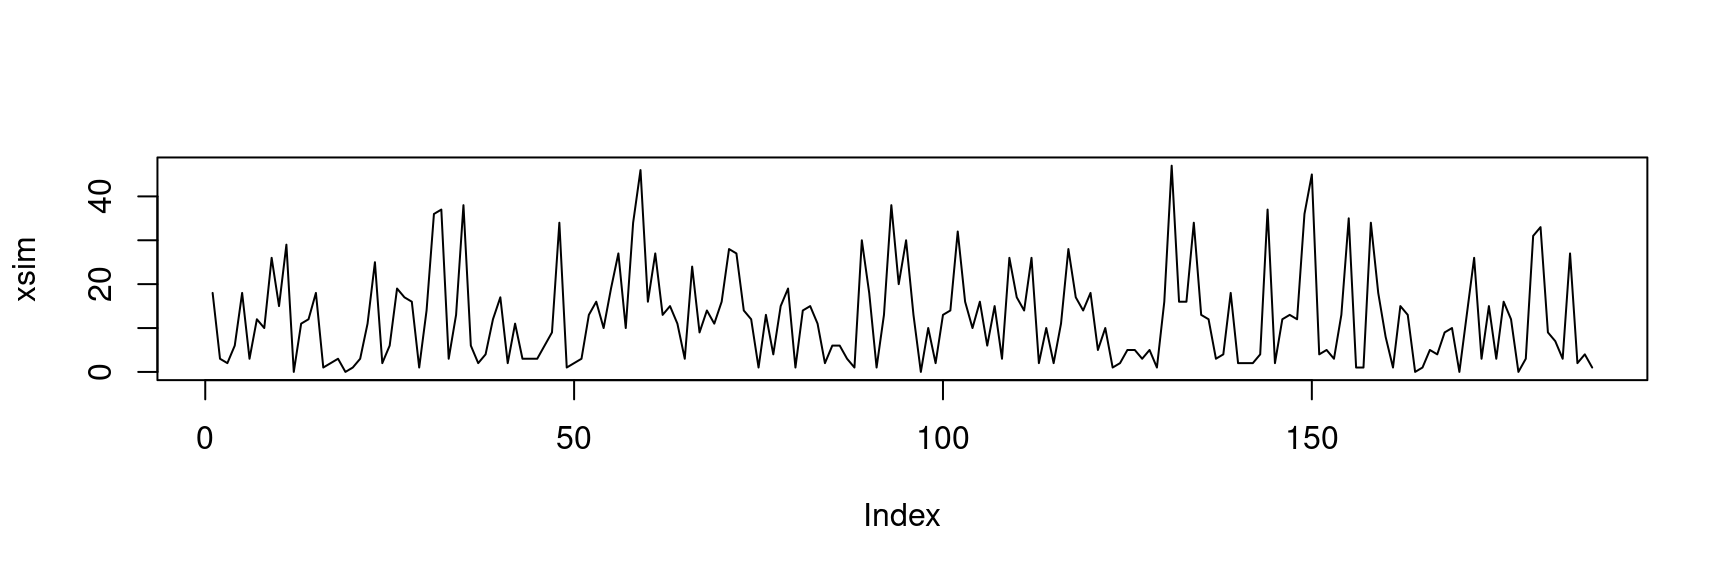
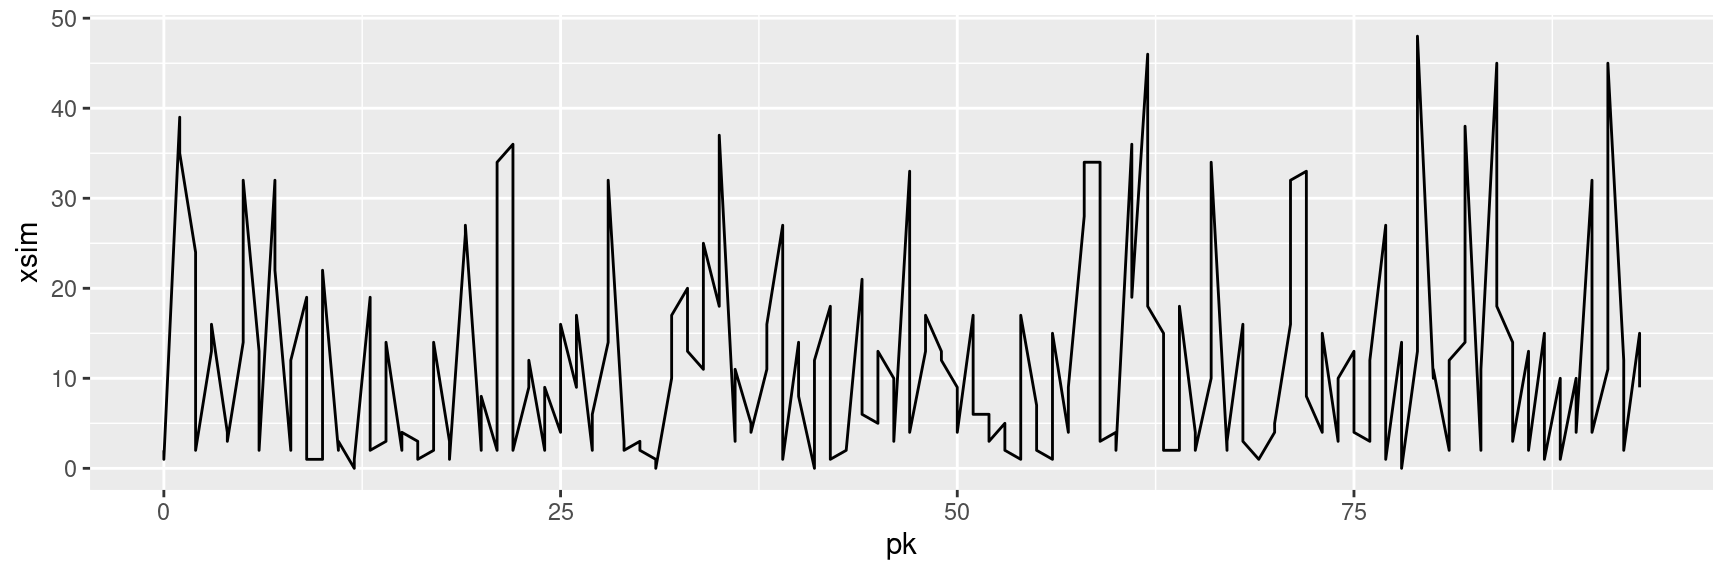
add context to cHMM

diff --git a/docs/continuous_HMMs.html b/docs/continuous_HMMs.html
@@ -54,7 +54,26 @@ div.sourceCode
 @media screen {
 pre > code.sourceCode > span > a:first-child::before { text-decoration: underline; }
 }
-</style>
+/* CSS for citations */
+div.csl-bib-body { }
+div.csl-entry {
+  clear: both;
+}
+.hanging-indent div.csl-entry {
+  margin-left:2em;
+  text-indent:-2em;
+}
+div.csl-left-margin {
+  min-width:2em;
+  float:left;
+}
+div.csl-right-inline {
+  margin-left:2em;
+  padding-left:1em;
+}
+div.csl-indent {
+  margin-left: 2em;
+}</style>
 
 
 <script src="site_libs/quarto-nav/quarto-nav.js"></script>
@@ -96,6 +115,8 @@ pre > code.sourceCode > span > a:first-child::before { text-decoration: underlin
   }
 }</script>
 
+  <script src="https://polyfill.io/v3/polyfill.min.js?features=es6"></script>
+  <script src="https://cdn.jsdelivr.net/npm/mathjax@3/es5/tex-chtml-full.js" type="text/javascript"></script>
 
 <link rel="stylesheet" href="style.css">
 </head>
@@ -186,8 +207,9 @@ pre > code.sourceCode > span > a:first-child::before { text-decoration: underlin
     <h2 id="toc-title">Table of contents</h2>
    
   <ul>
-  <li><a href="#introduction" id="toc-introduction" class="nav-link active" data-scroll-target="#introduction"><span class="header-section-number">6</span> Introduction</a></li>
-  <li><a href="#the-2-states" id="toc-the-2-states" class="nav-link" data-scroll-target="#the-2-states"><span class="header-section-number">7</span> The 2 states</a></li>
+  <li><a href="#initial-parameters" id="toc-initial-parameters" class="nav-link active" data-scroll-target="#initial-parameters"><span class="header-section-number">5.1</span> Initial parameters</a></li>
+  <li><a href="#fitting-the-model" id="toc-fitting-the-model" class="nav-link" data-scroll-target="#fitting-the-model"><span class="header-section-number">5.2</span> Fitting the model</a></li>
+  <li><a href="#considering-two-states" id="toc-considering-two-states" class="nav-link" data-scroll-target="#considering-two-states"><span class="header-section-number">5.3</span> Considering two states</a></li>
   </ul>
 </nav>
     </div>
@@ -211,17 +233,21 @@ pre > code.sourceCode > span > a:first-child::before { text-decoration: underlin
 
 </header>
 
-<section id="introduction" class="level1" data-number="6">
-<h1 data-number="6"><span class="header-section-number">6</span> Introduction</h1>
+<p>Although states in Hidden Markov Models are by definition categorical, the observations might be quantitative rather than categorical. In these cases the HMM might be called continuous observations HMMs or <strong>continuous HMMs</strong> (though the quantitative outputs might actually have discrete or pseudo-continous distributions).</p>
+<p>We will illustrate such a model in the case of a Poisson distribution. To do so we will consider an <strong>observed series consisting of the number of wood rafts observed along a river</strong>.</p>
+<p>To fit the Poisson Hidden Markov Model we use R scripts provided as an annex to the book <span class="citation" data-cites="zucchini_mcdonald_2009">Zucchini and MacDonald (<a href="references.html#ref-zucchini_mcdonald_2009" role="doc-biblioref">2009</a>)</span> and provided in the current repo under scripts:</p>
 <div class="cell">
-<div class="sourceCode cell-code" id="cb1"><pre class="sourceCode r code-with-copy"><code class="sourceCode r"><span id="cb1-1"><a href="#cb1-1" aria-hidden="true" tabindex="-1"></a><span class="fu">source</span>(<span class="st">"scripts/scripts_Zucchini_and_McDonald_2009.R"</span>)</span>
-<span id="cb1-2"><a href="#cb1-2" aria-hidden="true" tabindex="-1"></a><span class="co"># number of wood rafts</span></span>
-<span id="cb1-3"><a href="#cb1-3" aria-hidden="true" tabindex="-1"></a>data<span class="ot">=</span> readr<span class="sc">::</span><span class="fu">read_csv</span>(<span class="st">"data/wood_abundance.csv"</span>)</span>
-<span id="cb1-4"><a href="#cb1-4" aria-hidden="true" tabindex="-1"></a>pk<span class="ot">=</span>data<span class="sc">$</span>PK</span>
-<span id="cb1-5"><a href="#cb1-5" aria-hidden="true" tabindex="-1"></a>x<span class="ot">=</span>data<span class="sc">$</span>nbre_embacle</span></code><button title="Copy to Clipboard" class="code-copy-button"><i class="bi"></i></button></pre></div>
+<div class="sourceCode cell-code" id="cb1"><pre class="sourceCode r code-with-copy"><code class="sourceCode r"><span id="cb1-1"><a href="#cb1-1" aria-hidden="true" tabindex="-1"></a><span class="fu">source</span>(<span class="st">"scripts/scripts_Zucchini_and_McDonald_2009.R"</span>)</span></code><button title="Copy to Clipboard" class="code-copy-button"><i class="bi"></i></button></pre></div>
 </div>
 <div class="cell">
-<div class="sourceCode cell-code" id="cb2"><pre class="sourceCode r code-with-copy"><code class="sourceCode r"><span id="cb2-1"><a href="#cb2-1" aria-hidden="true" tabindex="-1"></a><span class="fu">plot</span>(x, <span class="at">type=</span><span class="st">"l"</span>)</span></code><button title="Copy to Clipboard" class="code-copy-button"><i class="bi"></i></button></pre></div>
+<div class="sourceCode cell-code" id="cb2"><pre class="sourceCode r code-with-copy"><code class="sourceCode r"><span id="cb2-1"><a href="#cb2-1" aria-hidden="true" tabindex="-1"></a><span class="co"># number of wood rafts</span></span>
+<span id="cb2-2"><a href="#cb2-2" aria-hidden="true" tabindex="-1"></a>woodrafts<span class="ot">=</span> readr<span class="sc">::</span><span class="fu">read_csv</span>(<span class="st">"data/wood_abundance.csv"</span>)</span>
+<span id="cb2-3"><a href="#cb2-3" aria-hidden="true" tabindex="-1"></a>pk<span class="ot">=</span>woodrafts<span class="sc">$</span>PK</span>
+<span id="cb2-4"><a href="#cb2-4" aria-hidden="true" tabindex="-1"></a>x<span class="ot">=</span>woodrafts<span class="sc">$</span>nbre_embacle</span></code><button title="Copy to Clipboard" class="code-copy-button"><i class="bi"></i></button></pre></div>
+</div>
+<div class="cell">
+<div class="sourceCode cell-code" id="cb3"><pre class="sourceCode r code-with-copy"><code class="sourceCode r"><span id="cb3-1"><a href="#cb3-1" aria-hidden="true" tabindex="-1"></a><span class="fu">ggplot</span>(woodrafts, <span class="fu">aes</span>(<span class="at">x=</span>pk, <span class="at">y=</span>nbre_embacle))<span class="sc">+</span></span>
+<span id="cb3-2"><a href="#cb3-2" aria-hidden="true" tabindex="-1"></a>  <span class="fu">geom_path</span>()</span></code><button title="Copy to Clipboard" class="code-copy-button"><i class="bi"></i></button></pre></div>
 <div class="cell-output-display">
 <div class="quarto-figure quarto-figure-center">
 <figure class="figure">
@@ -231,31 +257,60 @@ pre > code.sourceCode > span > a:first-child::before { text-decoration: underlin
 </div>
 </div>
 </div>
+<section id="initial-parameters" class="level2" data-number="5.1">
+<h2 data-number="5.1" class="anchored" data-anchor-id="initial-parameters"><span class="header-section-number">5.1</span> Initial parameters</h2>
+<p>We will initialize a HMM with three states, corresponding to a <strong>distribution of wood rafts with an average outcome</strong> that is:</p>
+<ul>
+<li><p>low (<span class="math inline">\(\lambda\)</span>=3)</p></li>
+<li><p>medium (<span class="math inline">\(\lambda\)</span>=10)</p></li>
+<li><p>high (<span class="math inline">\(\lambda\)</span>=20)</p></li>
+</ul>
 <div class="cell">
-<div class="sourceCode cell-code" id="cb3"><pre class="sourceCode r code-with-copy"><code class="sourceCode r"><span id="cb3-1"><a href="#cb3-1" aria-hidden="true" tabindex="-1"></a>lambda0<span class="ot">=</span><span class="fu">c</span>(<span class="dv">10</span>,<span class="dv">3</span>,<span class="dv">80</span>)</span>
-<span id="cb3-2"><a href="#cb3-2" aria-hidden="true" tabindex="-1"></a>gamma0<span class="ot">=</span><span class="fu">matrix</span>(<span class="fu">rep</span>(<span class="fl">0.025</span>,<span class="dv">9</span>),<span class="at">nrow=</span><span class="dv">3</span>)</span>
-<span id="cb3-3"><a href="#cb3-3" aria-hidden="true" tabindex="-1"></a><span class="fu">diag</span>(gamma0)<span class="ot">=</span><span class="fl">0.95</span></span>
-<span id="cb3-4"><a href="#cb3-4" aria-hidden="true" tabindex="-1"></a>parvect<span class="ot">=</span><span class="fu">pois.HMM.pn2pw</span>(<span class="at">m=</span><span class="dv">3</span>,<span class="at">lambda=</span>lambda0,<span class="at">gamma=</span>gamma0)</span>
-<span id="cb3-5"><a href="#cb3-5" aria-hidden="true" tabindex="-1"></a>fitted.HMM<span class="ot">=</span><span class="fu">pois.HMM.mle</span>(x,<span class="at">m=</span><span class="dv">3</span>,lambda0,gamma0)</span></code><button title="Copy to Clipboard" class="code-copy-button"><i class="bi"></i></button></pre></div>
-<div class="cell-output cell-output-stderr">
-<pre><code>Warning in nlm(pois.HMM.mllk, parvect0, x = x, m = m): NA / Inf remplacé par la
-valeur maximale positive</code></pre>
+<div class="sourceCode cell-code" id="cb4"><pre class="sourceCode r code-with-copy"><code class="sourceCode r"><span id="cb4-1"><a href="#cb4-1" aria-hidden="true" tabindex="-1"></a>lambda0<span class="ot">=</span><span class="fu">c</span>(<span class="dv">3</span>,<span class="dv">10</span>,<span class="dv">20</span>)</span></code><button title="Copy to Clipboard" class="code-copy-button"><i class="bi"></i></button></pre></div>
+</div>
+<p>The corresponding distributions look like this:</p>
+<div class="cell">
+<div class="cell-output-display">
+<p><img src="continuous_HMMs_files/figure-html/unnamed-chunk-2-1.png" class="img-fluid" width="672"></p>
 </div>
 </div>
+<p>Now, let’s initialize the transition matrix (with 3 rows and 3 columns since we consider three possible states). We make it such that the transition from one state to another is rather low (5% total):</p>
 <div class="cell">
-<div class="sourceCode cell-code" id="cb5"><pre class="sourceCode r code-with-copy"><code class="sourceCode r"><span id="cb5-1"><a href="#cb5-1" aria-hidden="true" tabindex="-1"></a><span class="fu">print</span>(fitted.HMM)</span></code><button title="Copy to Clipboard" class="code-copy-button"><i class="bi"></i></button></pre></div>
+<div class="sourceCode cell-code" id="cb5"><pre class="sourceCode r code-with-copy"><code class="sourceCode r"><span id="cb5-1"><a href="#cb5-1" aria-hidden="true" tabindex="-1"></a>gamma0<span class="ot">=</span><span class="fu">matrix</span>(<span class="fu">rep</span>(<span class="fl">0.025</span>,<span class="dv">9</span>),<span class="at">nrow=</span><span class="dv">3</span>)</span>
+<span id="cb5-2"><a href="#cb5-2" aria-hidden="true" tabindex="-1"></a><span class="fu">diag</span>(gamma0)<span class="ot">=</span><span class="fl">0.95</span></span>
+<span id="cb5-3"><a href="#cb5-3" aria-hidden="true" tabindex="-1"></a>gamma0</span></code><button title="Copy to Clipboard" class="code-copy-button"><i class="bi"></i></button></pre></div>
+<div class="cell-output cell-output-stdout">
+<pre><code>      [,1]  [,2]  [,3]
+[1,] 0.950 0.025 0.025
+[2,] 0.025 0.950 0.025
+[3,] 0.025 0.025 0.950</code></pre>
+</div>
+</div>
+<p>We now have defined all necessary parameters:</p>
+<div class="cell">
+<pre class="def_parvect cell-code"><code>parvect=pois.HMM.pn2pw(m=3,lambda=lambda0,gamma=gamma0)</code></pre>
+</div>
+</section>
+<section id="fitting-the-model" class="level2" data-number="5.2">
+<h2 data-number="5.2" class="anchored" data-anchor-id="fitting-the-model"><span class="header-section-number">5.2</span> Fitting the model</h2>
+<p>Now, let us fit the model through maximum likelihood estimation:</p>
+<div class="cell">
+<div class="sourceCode cell-code" id="cb8"><pre class="sourceCode r code-with-copy"><code class="sourceCode r"><span id="cb8-1"><a href="#cb8-1" aria-hidden="true" tabindex="-1"></a>fitted_HMM_ML<span class="ot">=</span><span class="fu">pois.HMM.mle</span>(x,<span class="at">m=</span><span class="dv">3</span>,lambda0,gamma0)</span></code><button title="Copy to Clipboard" class="code-copy-button"><i class="bi"></i></button></pre></div>
+</div>
+<div class="cell">
+<div class="sourceCode cell-code" id="cb9"><pre class="sourceCode r code-with-copy"><code class="sourceCode r"><span id="cb9-1"><a href="#cb9-1" aria-hidden="true" tabindex="-1"></a>fitted_HMM_ML</span></code><button title="Copy to Clipboard" class="code-copy-button"><i class="bi"></i></button></pre></div>
 <div class="cell-output cell-output-stdout">
 <pre><code>$lambda
-[1] 34.177617  2.585169 12.725369
+[1]  2.585161 12.725351 34.177599
 
 $gamma
           [,1]      [,2]      [,3]
-[1,] 0.2216705 0.4205523 0.3577771
-[2,] 0.1159837 0.4795673 0.4044491
-[3,] 0.1957610 0.3936675 0.4105716
+[1,] 0.4795649 0.4044502 0.1159850
+[2,] 0.3936670 0.4105721 0.1957609
+[3,] 0.4205519 0.3577776 0.2216705
 
 $delta
-[1] 0.1652990 0.4355228 0.3991782
+[1] 0.4355214 0.3991789 0.1652996
 
 $code
 NULL
@@ -271,8 +326,13 @@ $BIC
 </div>
 </div>
 <div class="cell">
-<div class="sourceCode cell-code" id="cb7"><pre class="sourceCode r code-with-copy"><code class="sourceCode r"><span id="cb7-1"><a href="#cb7-1" aria-hidden="true" tabindex="-1"></a>xsim<span class="ot">=</span><span class="fu">pois.HMM.generate_sample</span>(<span class="at">n=</span><span class="fu">length</span>(x),<span class="at">m=</span><span class="dv">3</span>,<span class="at">lambda=</span>fitted.HMM<span class="sc">$</span>lambda,fitted.HMM<span class="sc">$</span>gamma)</span>
-<span id="cb7-2"><a href="#cb7-2" aria-hidden="true" tabindex="-1"></a><span class="fu">plot</span>(xsim, <span class="at">type=</span><span class="st">"l"</span>)</span></code><button title="Copy to Clipboard" class="code-copy-button"><i class="bi"></i></button></pre></div>
+<div class="sourceCode cell-code" id="cb11"><pre class="sourceCode r code-with-copy"><code class="sourceCode r"><span id="cb11-1"><a href="#cb11-1" aria-hidden="true" tabindex="-1"></a>woodrafts <span class="ot">&lt;-</span> woodrafts <span class="sc">%&gt;%</span> </span>
+<span id="cb11-2"><a href="#cb11-2" aria-hidden="true" tabindex="-1"></a>  <span class="fu">mutate</span>(<span class="at">xsim=</span><span class="fu">pois.HMM.generate_sample</span>(<span class="at">n=</span><span class="fu">n</span>(),</span>
+<span id="cb11-3"><a href="#cb11-3" aria-hidden="true" tabindex="-1"></a>                                       <span class="at">m=</span><span class="dv">3</span>,</span>
+<span id="cb11-4"><a href="#cb11-4" aria-hidden="true" tabindex="-1"></a>                                       <span class="at">lambda=</span>fitted_HMM_ML<span class="sc">$</span>lambda,</span>
+<span id="cb11-5"><a href="#cb11-5" aria-hidden="true" tabindex="-1"></a>                                       <span class="at">gamma=</span>fitted_HMM_ML<span class="sc">$</span>gamma))</span>
+<span id="cb11-6"><a href="#cb11-6" aria-hidden="true" tabindex="-1"></a><span class="fu">ggplot</span>(woodrafts, <span class="fu">aes</span>(<span class="at">x=</span>pk, <span class="at">y=</span>xsim))<span class="sc">+</span></span>
+<span id="cb11-7"><a href="#cb11-7" aria-hidden="true" tabindex="-1"></a>  <span class="fu">geom_path</span>()</span></code><button title="Copy to Clipboard" class="code-copy-button"><i class="bi"></i></button></pre></div>
 <div class="cell-output-display">
 <div class="quarto-figure quarto-figure-center">
 <figure class="figure">
@@ -282,48 +342,94 @@ $BIC
 </div>
 </div>
 </div>
+<p>Other methods for fitting a model exist:</p>
 <div class="cell">
-<div class="sourceCode cell-code" id="cb8"><pre class="sourceCode r code-with-copy"><code class="sourceCode r"><span id="cb8-1"><a href="#cb8-1" aria-hidden="true" tabindex="-1"></a>fitted.HMM.EM<span class="ot">=</span><span class="fu">pois.HMM.EM</span>(x,<span class="at">m=</span><span class="dv">3</span>,fitted.HMM<span class="sc">$</span>lambda,fitted.HMM<span class="sc">$</span>gamma, <span class="at">delta=</span><span class="cn">NULL</span>)</span></code><button title="Copy to Clipboard" class="code-copy-button"><i class="bi"></i></button></pre></div>
-</div>
-<div class="cell">
-<div class="sourceCode cell-code" id="cb9"><pre class="sourceCode r code-with-copy"><code class="sourceCode r"><span id="cb9-1"><a href="#cb9-1" aria-hidden="true" tabindex="-1"></a>states<span class="ot">=</span><span class="fu">pois.HMM.viterbi</span>(x,<span class="at">m=</span><span class="dv">3</span>,<span class="at">lambda=</span>fitted.HMM.EM<span class="sc">$</span>lambda,fitted.HMM.EM<span class="sc">$</span>gamma,<span class="at">delta=</span><span class="cn">NULL</span>)</span>
-<span id="cb9-2"><a href="#cb9-2" aria-hidden="true" tabindex="-1"></a><span class="fu">print</span>(states)</span></code><button title="Copy to Clipboard" class="code-copy-button"><i class="bi"></i></button></pre></div>
+<div class="sourceCode cell-code" id="cb12"><pre class="sourceCode r code-with-copy"><code class="sourceCode r"><span id="cb12-1"><a href="#cb12-1" aria-hidden="true" tabindex="-1"></a>fitted_HMM_EM<span class="ot">=</span><span class="fu">pois.HMM.EM</span>(x,<span class="at">m=</span><span class="dv">3</span>,fitted_HMM_ML<span class="sc">$</span>lambda,fitted_HMM_ML<span class="sc">$</span>gamma, <span class="at">delta=</span><span class="cn">NULL</span>)</span>
+<span id="cb12-2"><a href="#cb12-2" aria-hidden="true" tabindex="-1"></a>fitted_HMM_EM</span></code><button title="Copy to Clipboard" class="code-copy-button"><i class="bi"></i></button></pre></div>
 <div class="cell-output cell-output-stdout">
-<pre><code>  [1] 2 2 2 1 2 2 2 3 2 3 3 3 2 2 1 3 2 3 3 3 1 3 2 3 2 3 2 2 3 2 3 3 3 2 3 3 2
- [38] 3 2 2 1 2 2 2 2 3 3 3 2 2 2 2 2 3 2 1 2 3 3 2 3 3 2 2 2 2 2 3 2 2 2 3 2 3
- [75] 2 2 2 3 2 2 2 2 2 3 2 3 2 1 2 3 1 1 3 3 1 3 3 3 1 3 2 1 3 3 1 1 2 2 3 3 3
-[112] 2 3 2 2 1 2 2 3 2 3 3 3 2 3 3 3 3 3 2 3 1 3 1 2 3 3 1 2 1 3 1 2 3 1 1 3 1
-[149] 2 3 1 3 3 1 1 1 1 1 3 1 2 2 2 2 3 2 3 1 2 3 3 2 3 3 3 3 1 2 2 2 1 2 2 2 2
-[186] 2 2 2</code></pre>
+<pre><code>$lambda
+[1]  2.554198 12.650083 34.117710
+
+$gamma
+          [,1]      [,2]      [,3]
+[1,] 0.4713464 0.4115508 0.1171027
+[2,] 0.3895688 0.4127975 0.1976337
+[3,] 0.4128963 0.3641187 0.2229850
+
+$delta
+[1] 1 0 0
+
+$mllk
+[1] 690.5085
+
+$AIC
+[1] 1403.017
+
+$BIC
+[1] 1438.618</code></pre>
+</div>
+</div>
+<p>We can now associate the states with the estimates of mean outcome <span class="math inline">\(\hat\lambda_i\)</span>:</p>
+<div class="cell">
+<div class="sourceCode cell-code" id="cb14"><pre class="sourceCode r code-with-copy"><code class="sourceCode r"><span id="cb14-1"><a href="#cb14-1" aria-hidden="true" tabindex="-1"></a>tib_states<span class="ot">=</span>tibble<span class="sc">::</span><span class="fu">tibble</span>(<span class="at">states=</span><span class="dv">1</span><span class="sc">:</span><span class="dv">3</span>,</span>
+<span id="cb14-2"><a href="#cb14-2" aria-hidden="true" tabindex="-1"></a>                          <span class="at">lambda_est=</span>fitted_HMM_EM<span class="sc">$</span>lambda)</span>
+<span id="cb14-3"><a href="#cb14-3" aria-hidden="true" tabindex="-1"></a>tib_states</span></code><button title="Copy to Clipboard" class="code-copy-button"><i class="bi"></i></button></pre></div>
+<div class="cell-output cell-output-stdout">
+<pre><code># A tibble: 3 × 2
+  states lambda_est
+   &lt;int&gt;      &lt;dbl&gt;
+1      1       2.55
+2      2      12.7 
+3      3      34.1 </code></pre>
 </div>
 </div>
 <div class="cell">
-<div class="sourceCode cell-code" id="cb11"><pre class="sourceCode r code-with-copy"><code class="sourceCode r"><span id="cb11-1"><a href="#cb11-1" aria-hidden="true" tabindex="-1"></a><span class="co">#|fig-cap:"Hidden states"</span></span>
-<span id="cb11-2"><a href="#cb11-2" aria-hidden="true" tabindex="-1"></a><span class="fu">layout</span>(<span class="fu">matrix</span>(<span class="dv">1</span><span class="sc">:</span><span class="dv">2</span>, <span class="at">nrow=</span><span class="dv">2</span>))</span>
-<span id="cb11-3"><a href="#cb11-3" aria-hidden="true" tabindex="-1"></a><span class="fu">plot</span>(pk,x,<span class="at">type=</span><span class="st">"l"</span>, <span class="at">main=</span><span class="st">"number of wood rafts "</span>)</span>
-<span id="cb11-4"><a href="#cb11-4" aria-hidden="true" tabindex="-1"></a><span class="fu">plot</span>(pk,x, <span class="at">type=</span><span class="st">"l"</span>)</span>
-<span id="cb11-5"><a href="#cb11-5" aria-hidden="true" tabindex="-1"></a><span class="fu">points</span>(pk,fitted.HMM.EM<span class="sc">$</span>lambda[states], <span class="at">col=</span><span class="st">"red"</span>, <span class="at">type=</span><span class="st">"l"</span>, <span class="at">lty=</span><span class="dv">2</span>)</span></code><button title="Copy to Clipboard" class="code-copy-button"><i class="bi"></i></button></pre></div>
+<div class="sourceCode cell-code" id="cb16"><pre class="sourceCode r code-with-copy"><code class="sourceCode r"><span id="cb16-1"><a href="#cb16-1" aria-hidden="true" tabindex="-1"></a>woodrafts <span class="ot">&lt;-</span> woodrafts <span class="sc">%&gt;%</span> </span>
+<span id="cb16-2"><a href="#cb16-2" aria-hidden="true" tabindex="-1"></a>  <span class="fu">mutate</span>(<span class="at">states=</span><span class="fu">pois.HMM.viterbi</span>(x,</span>
+<span id="cb16-3"><a href="#cb16-3" aria-hidden="true" tabindex="-1"></a>                                 <span class="at">m=</span><span class="dv">3</span>,</span>
+<span id="cb16-4"><a href="#cb16-4" aria-hidden="true" tabindex="-1"></a>                                 <span class="at">lambda=</span>fitted_HMM_EM<span class="sc">$</span>lambda,</span>
+<span id="cb16-5"><a href="#cb16-5" aria-hidden="true" tabindex="-1"></a>                                 fitted_HMM_EM<span class="sc">$</span>gamma,</span>
+<span id="cb16-6"><a href="#cb16-6" aria-hidden="true" tabindex="-1"></a>                                 <span class="at">delta=</span><span class="cn">NULL</span>)) <span class="sc">%&gt;%</span> </span>
+<span id="cb16-7"><a href="#cb16-7" aria-hidden="true" tabindex="-1"></a>  <span class="fu">left_join</span>(tib_states,<span class="at">by=</span><span class="fu">c</span>(<span class="st">"states"</span>))</span>
+<span id="cb16-8"><a href="#cb16-8" aria-hidden="true" tabindex="-1"></a><span class="fu">head</span>(woodrafts)</span></code><button title="Copy to Clipboard" class="code-copy-button"><i class="bi"></i></button></pre></div>
+<div class="cell-output cell-output-stdout">
+<pre><code># A tibble: 6 × 5
+     PK nbre_embacle  xsim states lambda_est
+  &lt;dbl&gt;        &lt;dbl&gt; &lt;int&gt;  &lt;dbl&gt;      &lt;dbl&gt;
+1     0            1     2      1       2.55
+2     0            0     1      1       2.55
+3     1            3    39      1       2.55
+4     1           58    35      3      34.1 
+5     2            3    24      1       2.55
+6     2            2     2      1       2.55</code></pre>
+</div>
+</div>
+<div class="cell">
+<div class="sourceCode cell-code" id="cb18"><pre class="sourceCode r code-with-copy"><code class="sourceCode r"><span id="cb18-1"><a href="#cb18-1" aria-hidden="true" tabindex="-1"></a><span class="co">#|fig-cap: "Series of observed data (plain black line) and estimated hidden states (red dotted line)"</span></span>
+<span id="cb18-2"><a href="#cb18-2" aria-hidden="true" tabindex="-1"></a><span class="fu">ggplot</span>(woodrafts, <span class="fu">aes</span>(<span class="at">x=</span>pk,<span class="at">y=</span>nbre_embacle))<span class="sc">+</span></span>
+<span id="cb18-3"><a href="#cb18-3" aria-hidden="true" tabindex="-1"></a>  <span class="fu">geom_path</span>()<span class="sc">+</span></span>
+<span id="cb18-4"><a href="#cb18-4" aria-hidden="true" tabindex="-1"></a>  <span class="fu">geom_line</span>(<span class="fu">aes</span>(<span class="at">y=</span>lambda_est), <span class="at">col=</span><span class="st">"red"</span>,<span class="at">linetype=</span><span class="dv">3</span>)</span></code><button title="Copy to Clipboard" class="code-copy-button"><i class="bi"></i></button></pre></div>
 <div class="cell-output-display">
 <p><img src="continuous_HMMs_files/figure-html/hiddenstates-1.png" class="img-fluid" width="864"></p>
 </div>
 </div>
 </section>
-<section id="the-2-states" class="level1" data-number="7">
-<h1 data-number="7"><span class="header-section-number">7</span> The 2 states</h1>
+<section id="considering-two-states" class="level2" data-number="5.3">
+<h2 data-number="5.3" class="anchored" data-anchor-id="considering-two-states"><span class="header-section-number">5.3</span> Considering two states</h2>
 <div class="cell">
-<div class="sourceCode cell-code" id="cb12"><pre class="sourceCode r code-with-copy"><code class="sourceCode r"><span id="cb12-1"><a href="#cb12-1" aria-hidden="true" tabindex="-1"></a>m<span class="ot">=</span><span class="dv">2</span></span>
-<span id="cb12-2"><a href="#cb12-2" aria-hidden="true" tabindex="-1"></a>lambda0<span class="ot">=</span><span class="fu">c</span>(<span class="dv">10</span>,<span class="dv">80</span>)</span>
-<span id="cb12-3"><a href="#cb12-3" aria-hidden="true" tabindex="-1"></a>gamma0<span class="ot">=</span><span class="fu">matrix</span>(<span class="fu">rep</span>(<span class="fl">0.025</span>,m<span class="sc">^</span><span class="dv">2</span>),<span class="at">nrow=</span>m)</span>
-<span id="cb12-4"><a href="#cb12-4" aria-hidden="true" tabindex="-1"></a><span class="fu">diag</span>(gamma0)<span class="ot">=</span><span class="fl">0.95</span></span>
-<span id="cb12-5"><a href="#cb12-5" aria-hidden="true" tabindex="-1"></a>parvect<span class="ot">=</span><span class="fu">pois.HMM.pn2pw</span>(<span class="at">m=</span>m,<span class="at">lambda=</span>lambda0,<span class="at">gamma=</span>gamma0)</span>
-<span id="cb12-6"><a href="#cb12-6" aria-hidden="true" tabindex="-1"></a>fitted.HMM<span class="ot">=</span><span class="fu">pois.HMM.mle</span>(x,<span class="at">m=</span>m,lambda0,gamma0)</span></code><button title="Copy to Clipboard" class="code-copy-button"><i class="bi"></i></button></pre></div>
+<div class="sourceCode cell-code" id="cb19"><pre class="sourceCode r code-with-copy"><code class="sourceCode r"><span id="cb19-1"><a href="#cb19-1" aria-hidden="true" tabindex="-1"></a>m<span class="ot">=</span><span class="dv">2</span></span>
+<span id="cb19-2"><a href="#cb19-2" aria-hidden="true" tabindex="-1"></a>lambda0<span class="ot">=</span><span class="fu">c</span>(<span class="dv">10</span>,<span class="dv">80</span>)</span>
+<span id="cb19-3"><a href="#cb19-3" aria-hidden="true" tabindex="-1"></a>gamma0<span class="ot">=</span><span class="fu">matrix</span>(<span class="fu">rep</span>(<span class="fl">0.025</span>,m<span class="sc">^</span><span class="dv">2</span>),<span class="at">nrow=</span>m)</span>
+<span id="cb19-4"><a href="#cb19-4" aria-hidden="true" tabindex="-1"></a><span class="fu">diag</span>(gamma0)<span class="ot">=</span><span class="fl">0.95</span></span>
+<span id="cb19-5"><a href="#cb19-5" aria-hidden="true" tabindex="-1"></a>parvect<span class="ot">=</span><span class="fu">pois.HMM.pn2pw</span>(<span class="at">m=</span>m,<span class="at">lambda=</span>lambda0,<span class="at">gamma=</span>gamma0)</span>
+<span id="cb19-6"><a href="#cb19-6" aria-hidden="true" tabindex="-1"></a>fitted.HMM<span class="ot">=</span><span class="fu">pois.HMM.mle</span>(x,<span class="at">m=</span>m,lambda0,gamma0)</span></code><button title="Copy to Clipboard" class="code-copy-button"><i class="bi"></i></button></pre></div>
 <div class="cell-output cell-output-stderr">
 <pre><code>Warning in nlm(pois.HMM.mllk, parvect0, x = x, m = m): NA / Inf remplacé par la
 valeur maximale positive</code></pre>
 </div>
 </div>
 <div class="cell">
-<div class="sourceCode cell-code" id="cb14"><pre class="sourceCode r code-with-copy"><code class="sourceCode r"><span id="cb14-1"><a href="#cb14-1" aria-hidden="true" tabindex="-1"></a><span class="fu">print</span>(fitted.HMM)</span></code><button title="Copy to Clipboard" class="code-copy-button"><i class="bi"></i></button></pre></div>
+<div class="sourceCode cell-code" id="cb21"><pre class="sourceCode r code-with-copy"><code class="sourceCode r"><span id="cb21-1"><a href="#cb21-1" aria-hidden="true" tabindex="-1"></a><span class="fu">print</span>(fitted.HMM)</span></code><button title="Copy to Clipboard" class="code-copy-button"><i class="bi"></i></button></pre></div>
 <div class="cell-output cell-output-stdout">
 <pre><code>$lambda
 [1]  4.186209 23.368149
@@ -350,11 +456,11 @@ $BIC
 </div>
 </div>
 <div class="cell">
-<div class="sourceCode cell-code" id="cb16"><pre class="sourceCode r code-with-copy"><code class="sourceCode r"><span id="cb16-1"><a href="#cb16-1" aria-hidden="true" tabindex="-1"></a>fitted.HMM.EM<span class="ot">=</span><span class="fu">pois.HMM.EM</span>(x,<span class="at">m=</span>m,fitted.HMM<span class="sc">$</span>lambda,fitted.HMM<span class="sc">$</span>gamma, <span class="at">delta=</span><span class="cn">NULL</span>)</span></code><button title="Copy to Clipboard" class="code-copy-button"><i class="bi"></i></button></pre></div>
+<div class="sourceCode cell-code" id="cb23"><pre class="sourceCode r code-with-copy"><code class="sourceCode r"><span id="cb23-1"><a href="#cb23-1" aria-hidden="true" tabindex="-1"></a>fitted.HMM.EM<span class="ot">=</span><span class="fu">pois.HMM.EM</span>(x,<span class="at">m=</span>m,fitted.HMM<span class="sc">$</span>lambda,fitted.HMM<span class="sc">$</span>gamma, <span class="at">delta=</span><span class="cn">NULL</span>)</span></code><button title="Copy to Clipboard" class="code-copy-button"><i class="bi"></i></button></pre></div>
 </div>
 <div class="cell">
-<div class="sourceCode cell-code" id="cb17"><pre class="sourceCode r code-with-copy"><code class="sourceCode r"><span id="cb17-1"><a href="#cb17-1" aria-hidden="true" tabindex="-1"></a>states<span class="ot">=</span><span class="fu">pois.HMM.viterbi</span>(x,<span class="at">m=</span>m,<span class="at">lambda=</span>fitted.HMM.EM<span class="sc">$</span>lambda,fitted.HMM.EM<span class="sc">$</span>gamma,<span class="at">delta=</span><span class="cn">NULL</span>)</span>
-<span id="cb17-2"><a href="#cb17-2" aria-hidden="true" tabindex="-1"></a><span class="fu">print</span>(states)</span></code><button title="Copy to Clipboard" class="code-copy-button"><i class="bi"></i></button></pre></div>
+<div class="sourceCode cell-code" id="cb24"><pre class="sourceCode r code-with-copy"><code class="sourceCode r"><span id="cb24-1"><a href="#cb24-1" aria-hidden="true" tabindex="-1"></a>states<span class="ot">=</span><span class="fu">pois.HMM.viterbi</span>(x,<span class="at">m=</span>m,<span class="at">lambda=</span>fitted.HMM.EM<span class="sc">$</span>lambda,fitted.HMM.EM<span class="sc">$</span>gamma,<span class="at">delta=</span><span class="cn">NULL</span>)</span>
+<span id="cb24-2"><a href="#cb24-2" aria-hidden="true" tabindex="-1"></a><span class="fu">print</span>(states)</span></code><button title="Copy to Clipboard" class="code-copy-button"><i class="bi"></i></button></pre></div>
 <div class="cell-output cell-output-stdout">
 <pre><code>  [1] 1 1 1 2 1 1 1 2 1 1 1 2 1 1 2 2 1 1 2 2 2 1 1 1 1 1 1 1 2 1 2 2 2 1 1 1 1
  [38] 1 1 1 2 1 1 1 1 1 2 2 1 1 1 1 1 2 1 2 1 2 2 1 2 2 1 1 1 1 1 2 1 1 1 1 1 1
@@ -365,16 +471,21 @@ $BIC
 </div>
 </div>
 <div class="cell">
-<div class="sourceCode cell-code" id="cb19"><pre class="sourceCode r code-with-copy"><code class="sourceCode r"><span id="cb19-1"><a href="#cb19-1" aria-hidden="true" tabindex="-1"></a><span class="fu">layout</span>(<span class="fu">matrix</span>(<span class="dv">1</span><span class="sc">:</span><span class="dv">2</span>, <span class="at">nrow=</span><span class="dv">2</span>))</span>
-<span id="cb19-2"><a href="#cb19-2" aria-hidden="true" tabindex="-1"></a><span class="fu">plot</span>(pk,x,<span class="at">type=</span><span class="st">"l"</span>, <span class="at">main=</span><span class="st">"number of wood rafts "</span>)</span>
-<span id="cb19-3"><a href="#cb19-3" aria-hidden="true" tabindex="-1"></a><span class="fu">plot</span>(pk,x, <span class="at">type=</span><span class="st">"l"</span>)</span>
-<span id="cb19-4"><a href="#cb19-4" aria-hidden="true" tabindex="-1"></a><span class="fu">points</span>(pk,fitted.HMM.EM<span class="sc">$</span>lambda[states], <span class="at">col=</span><span class="st">"red"</span>, <span class="at">type=</span><span class="st">"l"</span>, <span class="at">lty=</span><span class="dv">2</span>)</span></code><button title="Copy to Clipboard" class="code-copy-button"><i class="bi"></i></button></pre></div>
+<div class="sourceCode cell-code" id="cb26"><pre class="sourceCode r code-with-copy"><code class="sourceCode r"><span id="cb26-1"><a href="#cb26-1" aria-hidden="true" tabindex="-1"></a><span class="fu">layout</span>(<span class="fu">matrix</span>(<span class="dv">1</span><span class="sc">:</span><span class="dv">2</span>, <span class="at">nrow=</span><span class="dv">2</span>))</span>
+<span id="cb26-2"><a href="#cb26-2" aria-hidden="true" tabindex="-1"></a><span class="fu">plot</span>(pk,x,<span class="at">type=</span><span class="st">"l"</span>, <span class="at">main=</span><span class="st">"number of wood rafts "</span>)</span>
+<span id="cb26-3"><a href="#cb26-3" aria-hidden="true" tabindex="-1"></a><span class="fu">plot</span>(pk,x, <span class="at">type=</span><span class="st">"l"</span>)</span>
+<span id="cb26-4"><a href="#cb26-4" aria-hidden="true" tabindex="-1"></a><span class="fu">points</span>(pk,fitted.HMM.EM<span class="sc">$</span>lambda[states], <span class="at">col=</span><span class="st">"red"</span>, <span class="at">type=</span><span class="st">"l"</span>, <span class="at">lty=</span><span class="dv">2</span>)</span></code><button title="Copy to Clipboard" class="code-copy-button"><i class="bi"></i></button></pre></div>
 <div class="cell-output-display">
-<p><img src="continuous_HMMs_files/figure-html/unnamed-chunk-10-1.png" class="img-fluid" width="864"></p>
+<p><img src="continuous_HMMs_files/figure-html/unnamed-chunk-11-1.png" class="img-fluid" width="864"></p>
 </div>
 </div>
 
 
+<div id="refs" class="references csl-bib-body hanging-indent" role="list" style="display: none">
+<div id="ref-zucchini_mcdonald_2009" class="csl-entry" role="listitem">
+Zucchini, W., and I. L. MacDonald. 2009. <em>Hidden Markov Models for Time Series: An Introduction Using r, 1st Edition</em>. Chapman &amp; Hall/CRC Monographs on St,atistics and Applied Probability. CRC Press. https://doi.org/<a href="https://doi.org/10.1201/9781420010893">https://doi.org/10.1201/9781420010893</a>.
+</div>
+</div>
 </section>
 
 </main> <!-- /main -->

diff --git a/docs/references.html b/docs/references.html
@@ -188,8 +188,13 @@ div.csl-indent {
 
 </header>
 
-<div id="refs" role="list" style="display: none">
-
+<div id="refs" class="references csl-bib-body hanging-indent" role="list">
+<div id="ref-zucchini_mcdonald_2009" class="csl-entry" role="listitem">
+Zucchini, W., and I. L. MacDonald. 2009. <em>Hidden Markov Models for
+Time Series: An Introduction Using r, 1st Edition</em>. Chapman &amp;
+Hall/CRC Monographs on St,atistics and Applied Probability. CRC Press.
+https://doi.org/<a href="https://doi.org/10.1201/9781420010893">https://doi.org/10.1201/9781420010893</a>.
+</div>
 </div>
 
 
